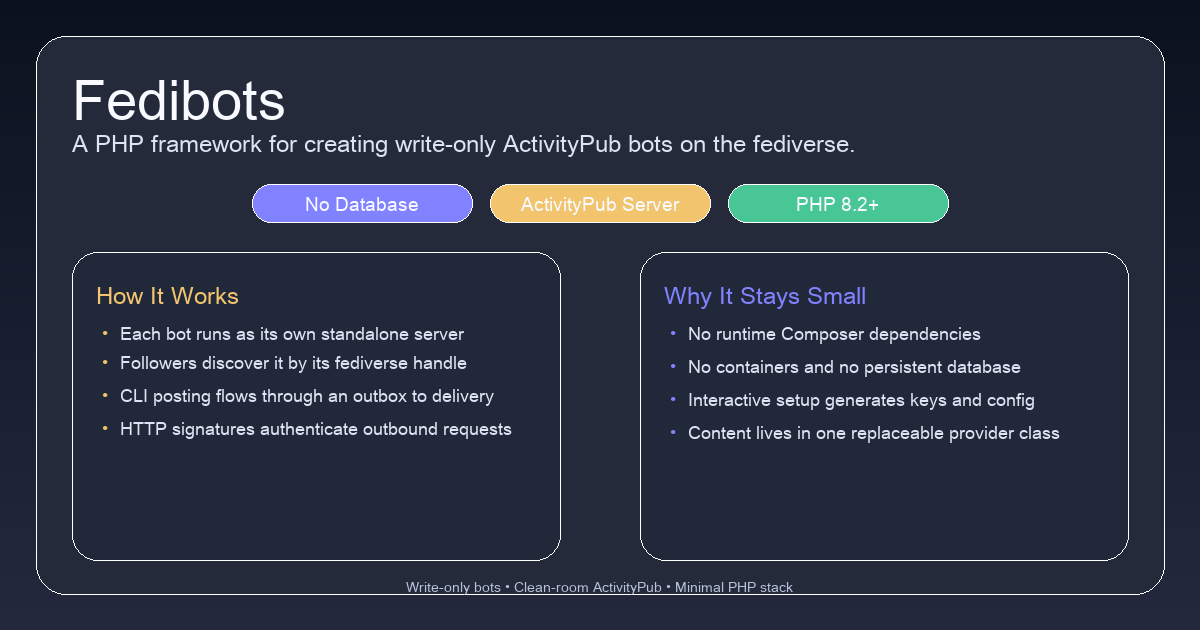
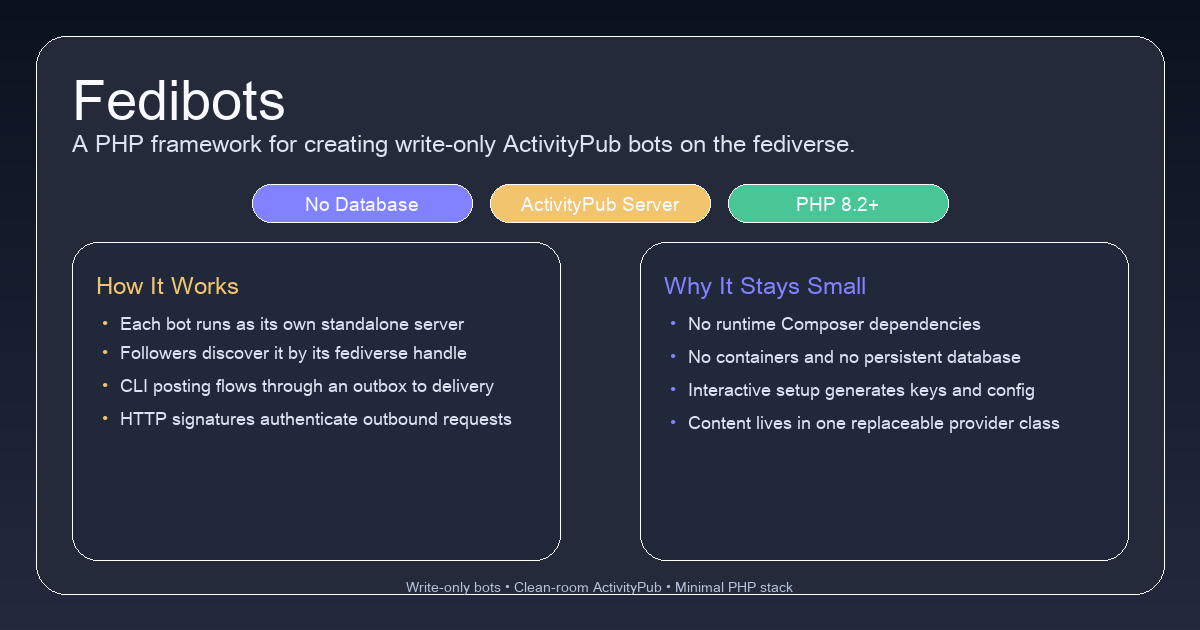
fix(previews): derive pill position from subtitle height to prevent overlap
The pill row was at a hardcoded y=184. Long subtitles (e.g. the 2FA
Ecosystem two-liner) extended past that baseline, causing the pills to
overlap the last line of text. Now pill_y = max(184, subtitle_bottom + 14)
and the card boxes follow dynamically. Single-line subtitles keep the
original layout; multi-line subtitles push the pills and cards down cleanly.

Regenerate all preview images. Restore the-drafting-table (theme screenshot)
and wp-bibliography-block (editor screenshot) which are not generated images.

Changed region(s): [[0.555, 0.4222, 0.8942, 0.6937], [0.0925, 0.5127, 0.4317, 0.6937], [0.0617, 0.4222, 0.2158, 0.4825]]

diff --git a/scripts/generate-project-previews.py b/scripts/generate-project-previews.py
@@ -258,9 +258,12 @@ def generate(filename, spec):
     x0 = 72
     draw.text((x0, 60), spec['title'], font=TITLE, fill=WHITE)
     subtitle_lines = wrap_text(draw, spec['subtitle'], SUBTITLE, 1040)
-    draw_lines(draw, subtitle_lines, SUBTITLE, MUTED, x0, 126, line_gap=6)
+    subtitle_bottom = draw_lines(draw, subtitle_lines, SUBTITLE, MUTED, x0, 126, line_gap=6)
 
-    pill_y = 184
+    # Derive pill position from actual subtitle height so long subtitles never
+    # bleed into the pills. 184 is the minimum (matches original 1-line layout).
+    pill_y = max(184, subtitle_bottom + 14)
+
     pill_specs = spec['pills']
     pill_widths = []
     for label, _color in pill_specs:
@@ -274,16 +277,18 @@ def generate(filename, spec):
         draw.text((x + width / 2, pill_y + 19), label, font=PILL, fill=WHITE, anchor='mm')
         x += width + gap
 
-    left = (72, 252, 560, 560)
-    right = (640, 252, 1128, 560)
+    # Card top sits 20 px below pill bottom; card bottom stays fixed at 560.
+    card_top = pill_y + 38 + 20
+    left = (72, card_top, 560, 560)
+    right = (640, card_top, 1128, 560)
     rr(draw, left, 26, BOX, outline=LINE)
     rr(draw, right, 26, BOX, outline=LINE)
 
-    draw.text((96, 278), spec['left_title'], font=CARD_TITLE, fill=GOLD)
-    bullet_list(draw, spec['left_bullets'], 102, 120, 320, 400, GOLD)
+    draw.text((96, card_top + 26), spec['left_title'], font=CARD_TITLE, fill=GOLD)
+    bullet_list(draw, spec['left_bullets'], 102, 120, card_top + 68, 400, GOLD)
 
-    draw.text((664, 278), spec['right_title'], font=CARD_TITLE, fill=ACCENT)
-    bullet_list(draw, spec['right_bullets'], 670, 688, 320, 400, ACCENT)
+    draw.text((664, card_top + 26), spec['right_title'], font=CARD_TITLE, fill=ACCENT)
+    bullet_list(draw, spec['right_bullets'], 670, 688, card_top + 68, 400, ACCENT)
 
     draw.text((W / 2, 586), spec['footer'], font=SMALL, fill=MUTED_2, anchor='mm')
     img.save(ASSETS / filename)
